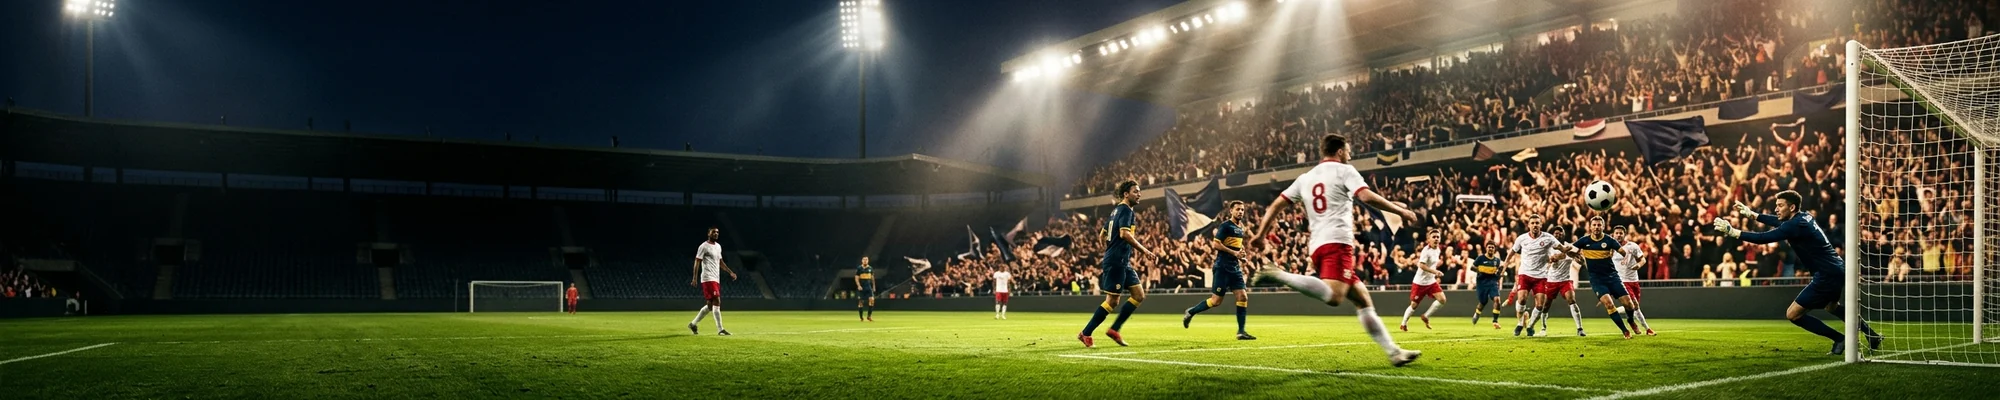
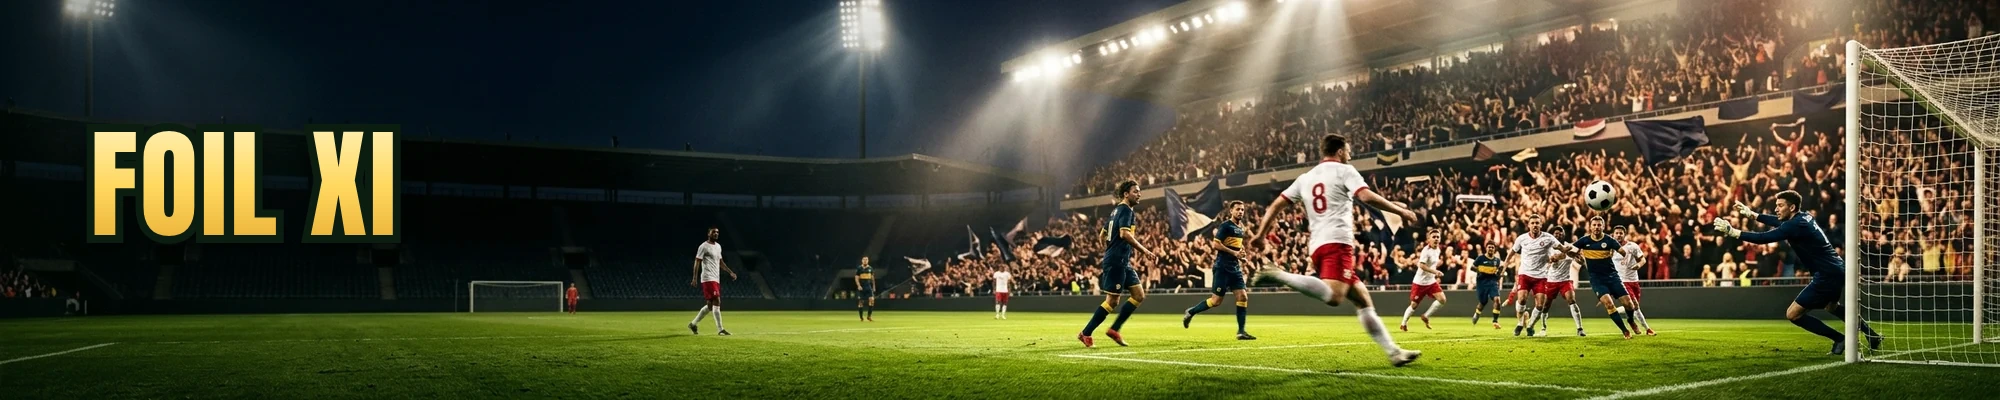
Foil XI: Wallpaper mit Titel (FOIL XI in Gold), Version ohne Titel unter grafik/
Claude-Session: https://claude.ai/code/session_01QqVFR4XcLXcufKkRsvnfj7

diff --git a/public/app.js b/public/app.js
@@ -661,7 +661,7 @@
     else (buehne.requestFullscreen || buehne.webkitRequestFullscreen).call(buehne);
   });
 
-  var BILD_V = '3';
+  var BILD_V = '4';
   function json(url) { return fetch(url, { cache: 'no-cache' }).then(function (r) { if (!r.ok) throw new Error(r.status); return r.json(); }); }
   Promise.all([json('games.json'), json('versions.json').catch(function () { return {}; })])
     .then(function (d) {
